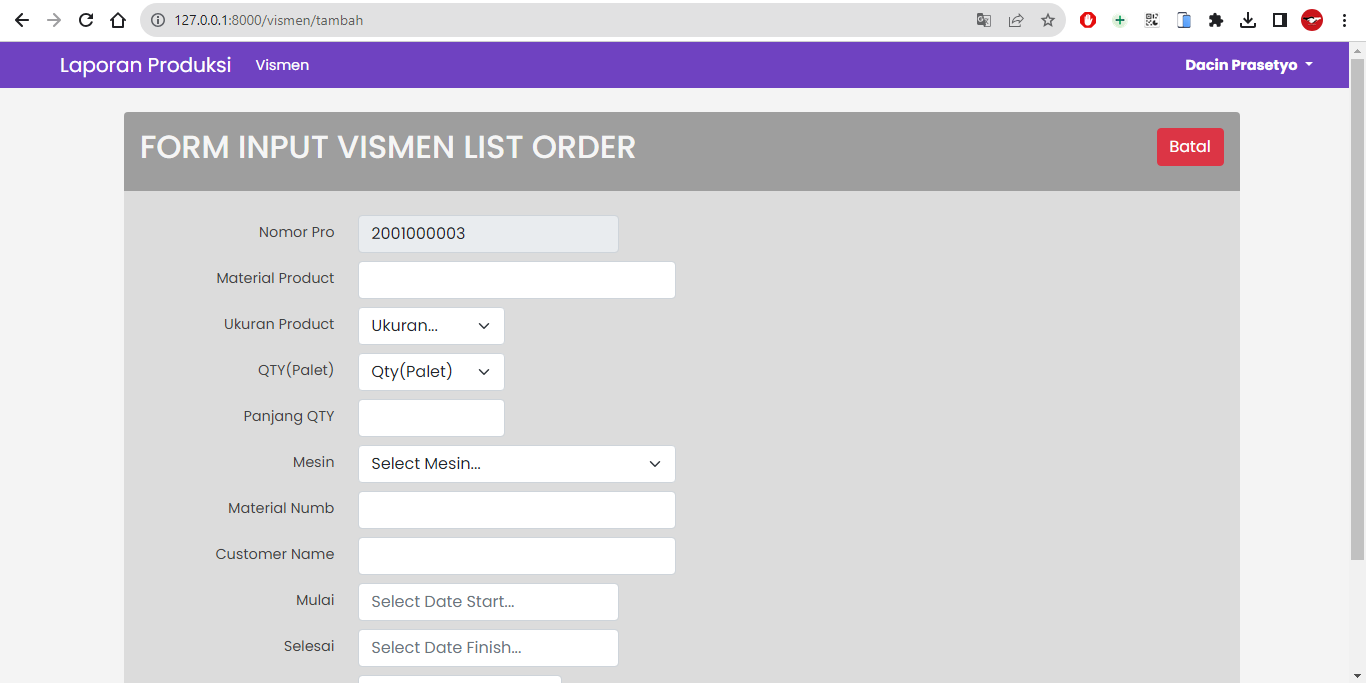
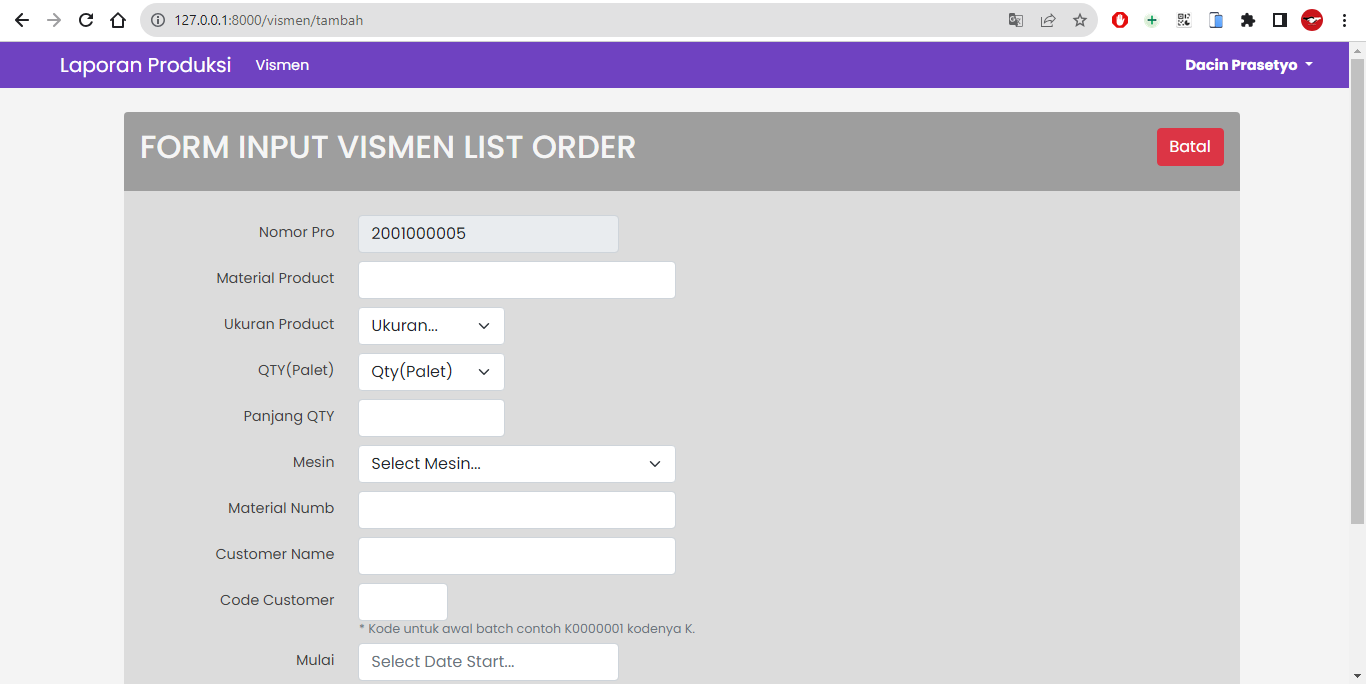
update 04 November 2023

diff --git a/app/views/home/create.php b/app/views/home/create.php
@@ -7,7 +7,8 @@
 </style>
 <?php
 Printer::print();
-Printer::printIn()
+Printer::printIn();
+$pro = $data['vismen'];
 ?>
 <div class="ps-3 no-print">
     <a href="/produksi/home" class="btn btn-danger"><i class="fa-solid fa-reply"></i> Back</a>
@@ -24,7 +25,6 @@ Printer::printIn()
     ?>
         <form action="/produksi/create-batch" method="POST">
             <div class="row" style="padding-left: 0; padding-right: 0;">
-                <?php $pro = $data['vismen']; ?>
                 <input type="hidden" class="card-title form-control-plaintext namaProduct" value="<?= $pro['nm_product']; ?> <?= $pro['qty_palet']; ?>MMx<?= $pro['panjang_qty']; ?>M" name="namaProduct" id="namaProduct" placeholder="Nama Product">
                 <?php $k = $data['kode'];
                 $no = 1;
@@ -32,7 +32,8 @@ Printer::printIn()
                 $qty = $pro['qty_palet'];
                 $jumlah = round($ukuran / $qty);
                 for ($no; $no <= $jumlah; $no++) : ?>
-                    <div class="col-sm-4 p-0">
+                    <!-- <div class="col-sm-4 p-0"> -->
+                    <a href="#" class="col-sm-4 p-0" style="color: black;" data-bs-toggle="modal" data-bs-target="#detail-dalam">
                         <div class="card m-1">
                             <div class="row">
                                 <div class="col-1">
@@ -57,8 +58,75 @@ Printer::printIn()
                                 </div>
                             </div>
                         </div>
-                    </div>
+                    </a>
+                    <!-- </div> -->
                 <?php endfor; ?>
+                <div class="modal fade" id="detail-dalam" tabindex="-1">
+                    <div class="modal-dialog modal-dialog-centered">
+                        <div class="modal-content">
+                            <div class="modal-header">
+                                <h5 class="modal-title">Detail Batch Dalam</h5>
+                                <button type="button" class="btn-close" data-bs-dismiss="modal" aria-label="Close"></button>
+                            </div>
+                            <div class="modal-body">
+                                <div class="document-card py-2">
+                                    <div class="document-item mb-2 pb-2">
+                                        <div cla ss="d-flex justify-content-start align-items-center">
+
+                                            <div class="d-flex flex-column justify-content-between align-items-start">
+                                                <h2 class="document-title">Process Order used</h2>
+                                                <span class="document-desc"><?= $pro['id_product']; ?></span>
+                                            </div>
+                                        </div>
+                                    </div>
+
+                                    <div class="document-item mb-2 pb-2">
+                                        <div cla ss="d-flex justify-content-start align-items-center">
+
+                                            <div class="d-flex flex-column justify-content-between align-items-start">
+                                                <h2 class="document-title">Material Number</h2>
+                                                <span class="document-desc"><?= $pro['material_numb'] != null ? $pro['material_numb'] : ''; ?></span>
+                                            </div>
+                                        </div>
+                                    </div>
+
+                                    <div class="document-item mb-2 pb-2">
+                                        <div cla ss="d-flex justify-content-start align-items-center">
+
+                                            <div class="d-flex flex-column justify-content-between align-items-start">
+                                                <h2 class="document-title">Material Description</h2>
+                                                <span class="document-desc"><?= $pro['nm_product'] ?> <?= $pro['qty_palet'] ?> MM x <?= $pro['panjang_qty'] ?> M</span>
+                                            </div>
+                                        </div>
+                                    </div>
+
+                                    <div class="document-item mb-2 pb-2">
+                                        <div cla ss="d-flex justify-content-start align-items-center">
+
+                                            <div class="d-flex flex-column justify-content-between align-items-start">
+                                                <h2 class="document-title">Customer Name</h2>
+
+                                                <span class="document-desc"><?= $pro['customer'] != null ? $pro['customer'] : ''; ?></span>
+                                            </div>
+                                        </div>
+                                    </div>
+
+                                    <div class="document-item mb-2 pb-2">
+                                        <div cla ss="d-flex justify-content-start align-items-center">
+
+                                            <div class="d-flex flex-column justify-content-between align-items-start">
+                                                <h2 class="document-title">Start PRO - Finish PRO </h2>
+
+                                                <span class="document-desc"><?= Tanggal::tgl_indo($pro['start_produksi']); ?> - <?= Tanggal::tgl_indo($pro['finish_produksi']); ?></span>
+                                            </div>
+                                        </div>
+                                    </div>
+
+                                </div>
+                            </div>
+                        </div>
+                    </div>
+                </div>
             </div>
             <div class="col align-self-end text-end mt-3">
                 <button type="submit" class="btn btn-primary btn-sm p-2">Cetak Batch Dalam</button>
@@ -69,32 +137,98 @@ Printer::printIn()
     ?>
         <form action="/produksi/update-batch" method="POST">
             <div class="row" style="padding-left: 0; padding-right: 0;">
-                <?php foreach ($data['kode'] as $key => $pro) : ?>
-                    <div class="col-sm-4 p-0">
+                <?php foreach ($data['kode'] as $key => $value) : ?>
+                    <a href="#" class="col-sm-4 p-0" style="color: black;" data-bs-toggle="modal" data-bs-target="#detail-luar">
                         <div class="card m-1">
                             <div class="card-body p-2">
                                 <p class="m-0">
-                                    <label class="fw-normal label-pro" style="font-size: .7rem;"><strong><?= $pro['nm_product']; ?> <?= $pro['qty_palet']; ?>MMx<?= $pro['panjang_qty']; ?>M</strong></label>
+                                    <label class="fw-normal label-pro" style="font-size: .7rem;"><strong><?= $value['nm_product']; ?> <?= $value['qty_palet']; ?>MMx<?= $value['panjang_qty']; ?>M</strong></label>
                                 </p>
-                                <input type="hidden" class="card-title form-control-plaintext namaProduct" value="<?= $pro['nm_product']; ?> <?= $pro['qty_palet']; ?>MMx<?= $pro['panjang_qty']; ?>M" name="namaProduct[]" id="namaProduct" placeholder="Nama Product">
-                                <input type="hidden" class="card-title form-control-plaintext" name="inputBatch[]" value="<?= $pro['nm_batch']; ?>" id="inputBatch">
+                                <input type="hidden" class="card-title form-control-plaintext namaProduct" value="<?= $value['nm_product']; ?> <?= $value['qty_palet']; ?>MMx<?= $value['panjang_qty']; ?>M" name="namaProduct[]" id="namaProduct" placeholder="Nama Product">
+                                <input type="hidden" class="card-title form-control-plaintext" name="inputBatch[]" value="<?= $value['nm_batch']; ?>" id="inputBatch">
                                 <?php
                                 $generator = new Picqer\Barcode\BarcodeGeneratorSVG();
-                                echo $generator->getBarcode($pro['nm_batch'], $generator::TYPE_CODE_93);
+                                echo $generator->getBarcode($value['nm_batch'], $generator::TYPE_CODE_93);
                                 ?>
 
                                 <p class="m-0">
-                                    <label class="card-title fw-bold"><?= $pro['nm_batch']; ?></label>
+                                    <label class="card-title fw-bold"><?= $value['nm_batch']; ?></label>
                                 </p>
                             </div>
                         </div>
-                    </div>
+                    </a>
                 <?php endforeach; ?>
             </div>
             <div class="col align-self-end text-end mt-3">
                 <button type="submit" class="btn btn-primary btn-sm p-2">Cetak Batch Luar</button>
             </div>
         </form>
+        <div class="modal fade" id="detail-luar" tabindex="-1">
+            <div class="modal-dialog modal-dialog-centered">
+                <div class="modal-content">
+                    <div class="modal-header">
+                        <h5 class="modal-title">Detail Batch Luar</h5>
+                        <button type="button" class="btn-close" data-bs-dismiss="modal" aria-label="Close"></button>
+                    </div>
+                    <div class="modal-body">
+                        <div class="document-card py-2">
+                            <div class="document-item mb-2 pb-2">
+                                <div cla ss="d-flex justify-content-start align-items-center">
+
+                                    <div class="d-flex flex-column justify-content-between align-items-start">
+                                        <h2 class="document-title">Process Order used</h2>
+                                        <span class="document-desc"><?= $pro['id_product']; ?></span>
+                                    </div>
+                                </div>
+                            </div>
+
+                            <div class="document-item mb-2 pb-2">
+                                <div cla ss="d-flex justify-content-start align-items-center">
+
+                                    <div class="d-flex flex-column justify-content-between align-items-start">
+                                        <h2 class="document-title">Material Number</h2>
+                                        <span class="document-desc"><?= $pro['material_numb'] != null ? $pro['material_numb'] : ''; ?></span>
+                                    </div>
+                                </div>
+                            </div>
+
+                            <div class="document-item mb-2 pb-2">
+                                <div cla ss="d-flex justify-content-start align-items-center">
+
+                                    <div class="d-flex flex-column justify-content-between align-items-start">
+                                        <h2 class="document-title">Material Description</h2>
+                                        <span class="document-desc"><?= $pro['nm_product'] ?> <?= $pro['qty_palet'] ?> MM x <?= $pro['panjang_qty'] ?> M</span>
+                                    </div>
+                                </div>
+                            </div>
+
+                            <div class="document-item mb-2 pb-2">
+                                <div cla ss="d-flex justify-content-start align-items-center">
+
+                                    <div class="d-flex flex-column justify-content-between align-items-start">
+                                        <h2 class="document-title">Customer Name</h2>
+
+                                        <span class="document-desc"><?= $pro['customer'] != null ? $pro['customer'] : ''; ?></span>
+                                    </div>
+                                </div>
+                            </div>
+
+                            <div class="document-item mb-2 pb-2">
+                                <div cla ss="d-flex justify-content-start align-items-center">
+
+                                    <div class="d-flex flex-column justify-content-between align-items-start">
+                                        <h2 class="document-title">Start PRO - Finish PRO </h2>
+
+                                        <span class="document-desc"><?= Tanggal::tgl_indo($pro['start_produksi']); ?> - <?= Tanggal::tgl_indo($pro['finish_produksi']); ?></span>
+                                    </div>
+                                </div>
+                            </div>
+
+                        </div>
+                    </div>
+                </div>
+            </div>
+        </div>
     <?php
     }
     ?>

diff --git a/app/views/landing/vismen.php b/app/views/landing/vismen.php
@@ -1,3 +1,42 @@
+<style>
+    .tooltip {
+        position: relative;
+        display: inline-block;
+    }
+
+    .tooltip .tooltiptext {
+        visibility: hidden;
+        width: 140px;
+        background-color: #555;
+        color: #fff;
+        text-align: center;
+        border-radius: 6px;
+        padding: 5px;
+        position: absolute;
+        z-index: 1;
+        bottom: 150%;
+        left: 50%;
+        margin-left: -75px;
+        opacity: 0;
+        transition: opacity 0.3s;
+    }
+
+    .tooltip .tooltiptext::after {
+        content: "";
+        position: absolute;
+        top: 100%;
+        left: 50%;
+        margin-left: -5px;
+        border-width: 5px;
+        border-style: solid;
+        border-color: #555 transparent transparent transparent;
+    }
+
+    .tooltip:hover .tooltiptext {
+        visibility: visible;
+        opacity: 1;
+    }
+</style>
 <div class="main py-4">
     <!-- <div class="container"> -->
     <div class="col"><?php Flasher::flash() ?></div>
@@ -45,7 +84,11 @@
                             <tr>
                                 <td><?= $nomor++; ?></td>
                                 <td><?= $vs['nm_product']; ?></td>
-                                <td><?= $vs['id_product']; ?></td>
+                                <td>
+                                    <div id="myTooltip" onclick="copyToClipboard(<?php echo $vs['id_product']; ?>)" data-bs-toggle="tooltip" data-bs-placement="top" title="Copy to Clipboard">
+                                        <?= $vs['id_product']; ?>
+                                    </div>
+                                </td>
                                 <td><?= $vs['panjang_qty']; ?></td>
                                 <td><?= $vs['qty_palet']; ?></td>
                                 <td><?= Tanggal::tgl_indo($vs['start_produksi'], true); ?></td>
@@ -60,14 +103,8 @@
     </div>
 </div>
 
-<!-- <script>
-    const btn = document.querySelector('.tambah');
-
-    btn.addEventListener('click', function() {
-        if (btn.innerHTML === "Tambah") {
-            btn.innerHTML = "Batal";
-        } else {
-            btn.innerHTML = "Tambah";
-        }
-    })
-</script> -->
+<script>
+    function copyToClipboard(e) {
+        navigator.clipboard.writeText(e);
+    }
+</script>

diff --git a/app/models/Batch_model.php b/app/models/Batch_model.php
@@ -46,31 +46,26 @@ class Batch_model
     }
     public function getKode()
     {
-        $this->db->query('SELECT kode FROM `tb_vismen` WHERE id_product = :id_product');
-        $this->db->bind('id_product', $_SESSION['login']['id_pro']);
-        $kode = $this->db->single();
-        $this->db->query('SELECT LEFT (nm_batch, 1) as kd FROM tb_batch GROUP BY LEFT (nm_batch, 1) DESC');
-        $value = $this->db->resultSet();
         $this->db->query('SELECT * FROM `tb_batch` JOIN `tb_vismen` USING (id_product) WHERE is_post = 1');
         $hasil = $this->db->resultSet();
         if ($this->db->rowCount() > 0) {
             return $hasil;
         }
 
-        foreach ($value as $val) {
-            if ($val['kd'] == $kode['kode']) {
-                $this->db->query('SELECT RIGHT (nm_batch, 7) as nomor FROM tb_batch WHERE nm_batch LIKE :kode ORDER BY RIGHT (nm_batch, 7) DESC LIMIT 1');
-                $this->db->bind('kode', $kode['kode'] . '%');
-                $cek = $this->db->single();
-                if ($this->db->rowCount() > 0) {
-                    $kd = $kode['kode'];
-                    $no = $cek['nomor'];
-                    $no++;
-                    $kode = $kd . sprintf("%08d", $no);
+        $this->db->query('SELECT kode FROM `tb_vismen` WHERE id_product = :id_product');
+        $this->db->bind('id_product', $_SESSION['login']['id_pro']);
+        $kode = $this->db->single();
 
-                    return $kode;
-                }
-            }
+        $this->db->query('SELECT RIGHT (nm_batch, 7) as nomor FROM tb_batch WHERE nm_batch LIKE :kode ORDER BY RIGHT (nm_batch, 7) DESC LIMIT 1');
+        $this->db->bind('kode', $kode['kode'] . '%');
+        $cek = $this->db->single();
+        if ($this->db->rowCount() > 0) {
+            $kd = $kode['kode'];
+            $no = $cek['nomor'];
+            $no++;
+            $kode = $kd . sprintf("%08d", $no);
+
+            return $kode;
         }
 
         $kd = $kode['kode'];

diff --git a/app/views/home/index.php b/app/views/home/index.php
@@ -224,9 +224,6 @@
                                                 <span class="document-desc"><?= $pro['id_product']; ?></span>
                                             </div>
                                         </div>
-
-
-
                                     </div>
 
                                     <div class="document-item">
@@ -238,8 +235,6 @@
                                                 <span class="document-desc"><?= $pro['material_numb'] != null ? $pro['material_numb'] : ''; ?></span>
                                             </div>
                                         </div>
-
-
                                     </div>
 
                                     <div class="document-item">

diff --git a/app/views/landing/tambah-vismen.php b/app/views/landing/tambah-vismen.php
@@ -95,7 +95,7 @@
                             <div class="col-sm-3">&nbsp;</div>
                             <div class="col-sm-auto">
                                 <span id="kodeHelp" class="form-text">
-                                    &ensp;* Kode untuk awal batch contoh K0000001 kodenya K.
+                                    &ensp;* Kode untuk awal batch contoh K0000123 kodenya K.
                                 </span>
                             </div>
                         </div>

diff --git a/app/models/Vismen_model.php b/app/models/Vismen_model.php
@@ -59,7 +59,7 @@ class Vismen_model
         $this->db->bind('mesin', $msn);
         $this->db->bind('material_numb', $mtr);
         $this->db->bind('customer', $cst);
-        $this->db->bind('kode', $kd);
+        $this->db->bind('kode', strtoupper($kd));
         $this->db->bind('start_produksi', $start);
         $this->db->bind('finish_produksi', $finish);
         $this->db->bind('est_pengiriman', $deliv);
